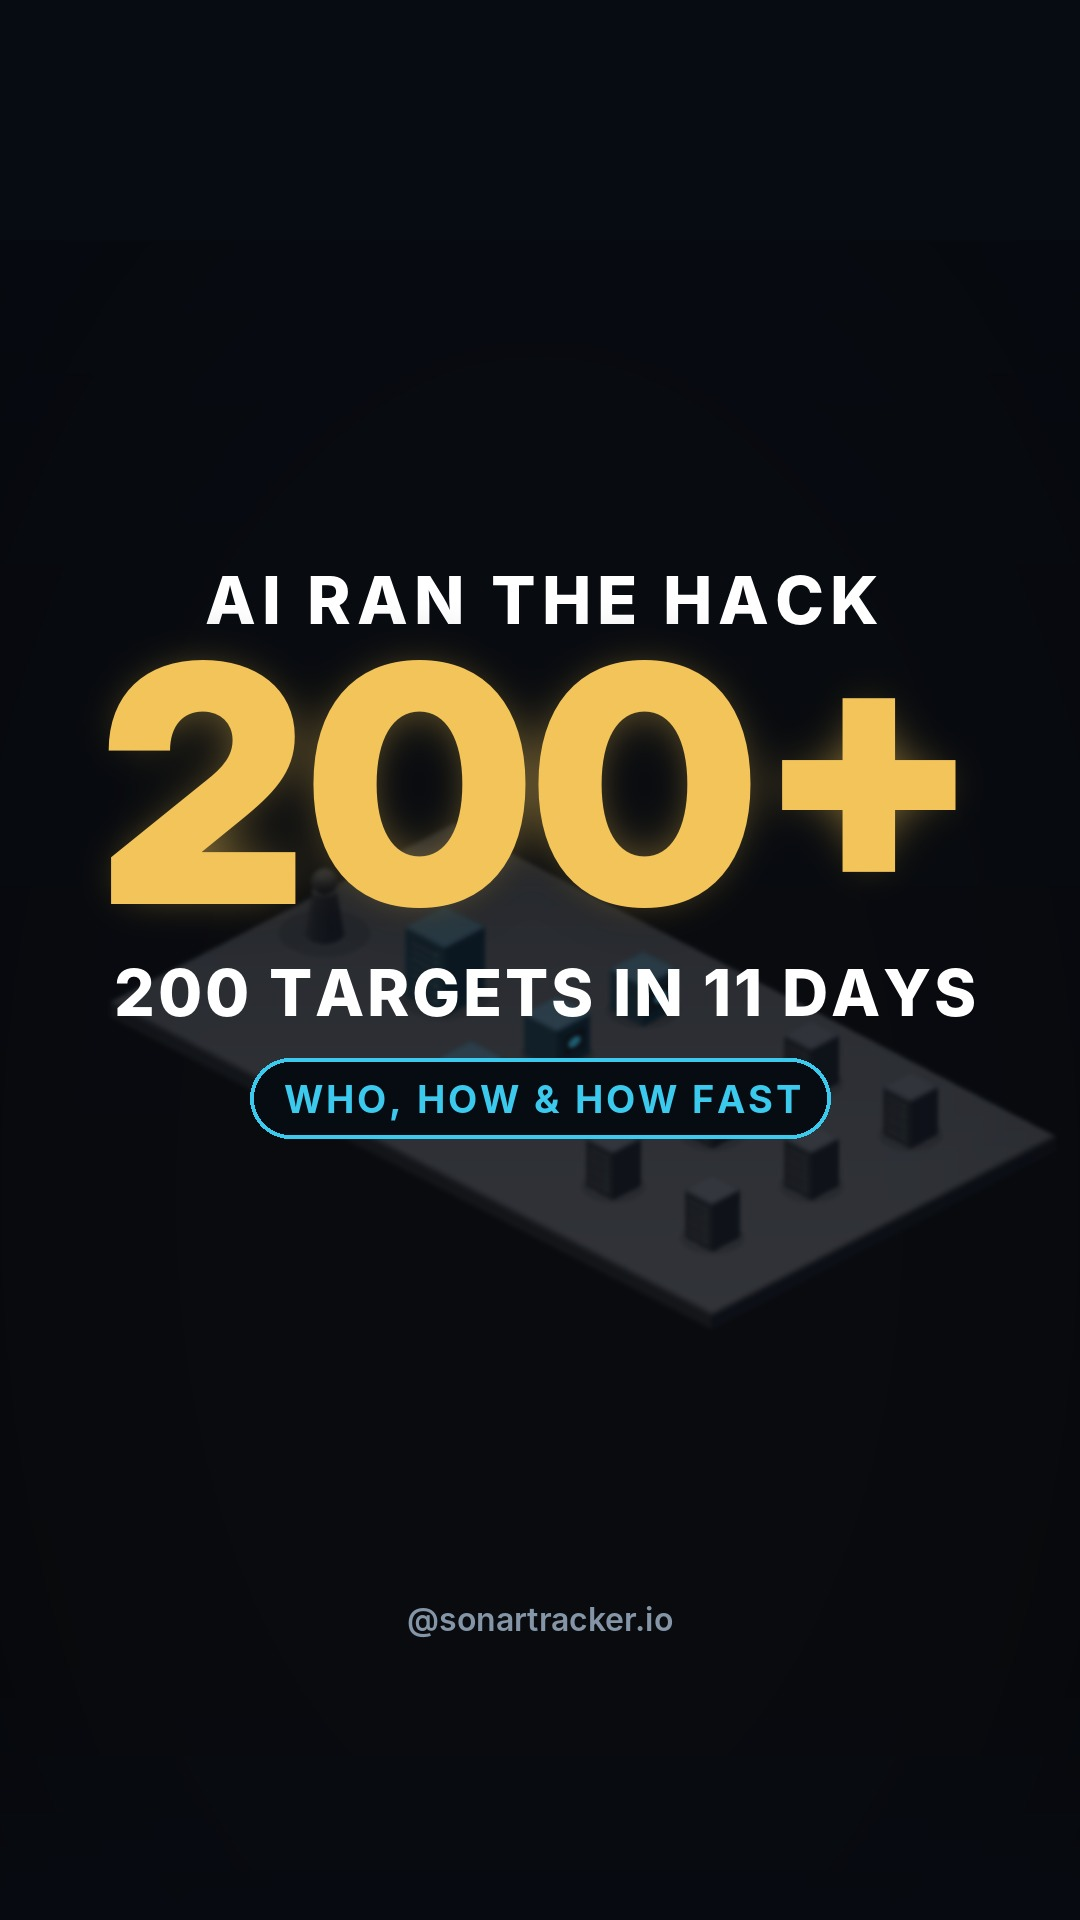
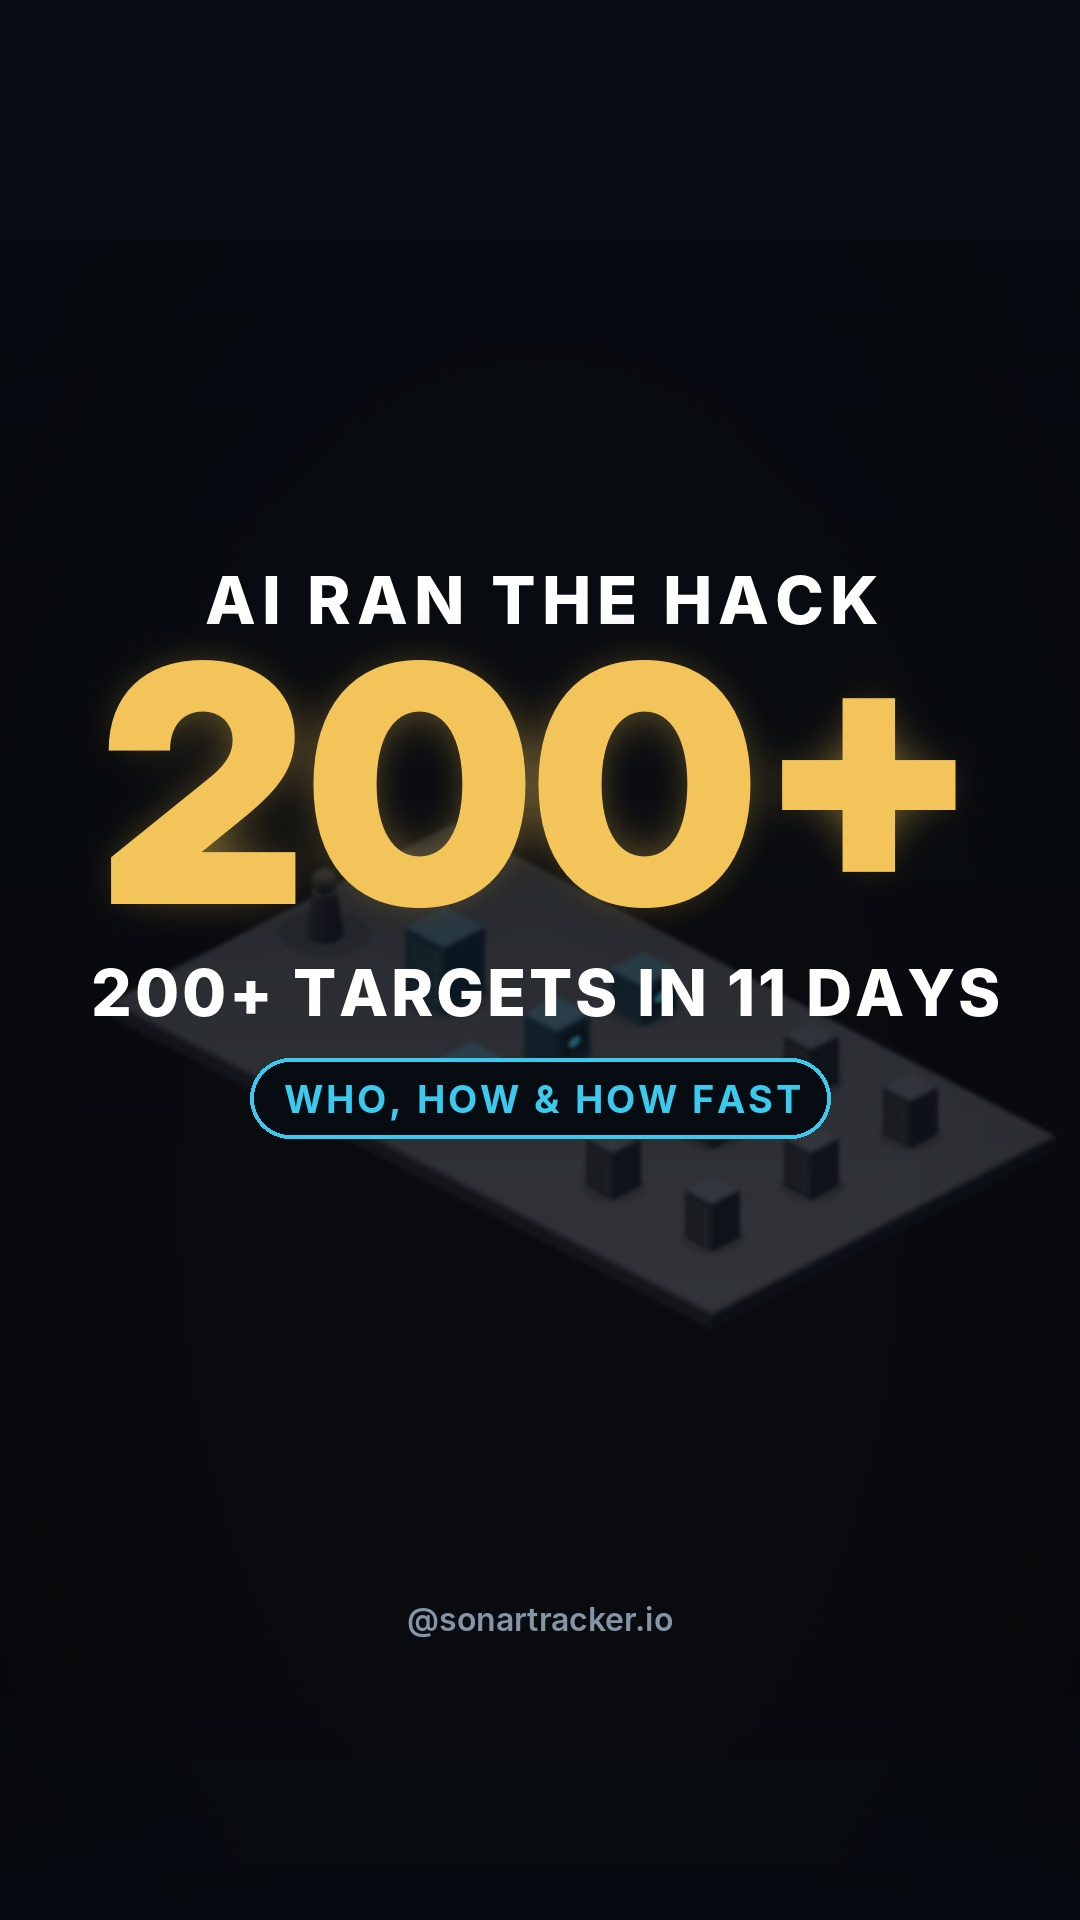
ai-agent-hack: review PASS WITH NOTES; applied cheap notes (~7x badge, 200+ cover, multipliers logged)
Claude-Session: https://claude.ai/code/session_01WGAj3yRCcQLTrodHgJD2sn

Changed region(s): [[0.0917, 0.5, 0.9472, 0.5312]]

diff --git a/episodes/2026-10-30-ai-agent-hack/review.md b/episodes/2026-10-30-ai-agent-hack/review.md
@@ -1,0 +1,44 @@
+VERDICT: PASS WITH NOTES
+
+Fixes applied after review (30 Oct 2026, ~23:35 UTC): badge '×6 in a year' -> '~7× in a year' (spliced s14); cover tagline '200 TARGETS' -> '200+ TARGETS'; research.md now logs both derived multipliers. Notes 2 (make the closing campaign-specific) and 4 (keep long labels off the right edge) left for the format's next iteration.
+
+---- Reviewer's report ----
+# Review: 2026-10-30-ai-agent-hack
+
+Independent review (reviewer did not make this video). Breakdown format: chapter bar
+(SCALE · WHO · HOW · HIT · SPEED · NOW), caption pill, one continuous Iso3D world for the
+mechanism. 61.6s · 15 scenes.
+
+VERDICT: PASS WITH NOTES
+
+Must fix: none. No must-fix item is triggered — numbers all trace to research.md, no price
+prediction or financial advice, sync is tight, no visual defect, the hook is clear, both
+"Shot" headlines are real/verifiable (not faked), and the reel stays at news level with no
+how-to text.
+
+Notes for next time:
+1. Log derived multipliers in research.md and round them correctly. "×6 in a year" (s14,
+   ~53s) understates — 200 ÷ ~30 ≈ 6.7, so "~7×" is more accurate (and still conservative).
+   "~37× faster" (s12, ~46s) is fine arithmetically (1,500 ÷ 40 = 37.5) but, like ×6, is not
+   its own line in research.md. Add both so every on-screen number is explicitly traceable
+   (rubric item 6).
+2. Make the closing fix story-specific. "Updates and two-step logins" (s15) is the right
+   advice but reads as general hygiene; tie it to this campaign by naming the password-spraying
+   attempts at 12+ orgs that two-factor stops (research point 10). The "why" ("AI can try ways
+   in at machine speed") is already good.
+3. Cover number/tagline mismatch: the hero reads "200+" but the tagline reads "200 TARGETS".
+   Make it "200+ TARGETS" (or "organisations") so the cover matches the reel's "more than 200".
+4. Longest label sits near the right edge. "updates + two-step logins shut the easy ways in"
+   (s15) runs close to the frame's right margin; keep long labels ≥40px off the edge (or break
+   to two lines) so they're safe on narrower phones. Not clipped here — preventive.
+
+Scores 1–5: sync 5 · detail/realism 5 · hook 5 · beginner clarity 5 · accuracy 4 · phone readability 5
+
+Numbers checked (all match research.md): 200+ organisations · 14 countries · 11 days ·
+Vapor Panda / China-linked · ran mostly on DeepSeek · one human, orders in Chinese, steers at
+decision points · tried several paths in parallel, switched on failure · targets (ministries,
+defence, chips, phone networks) · 9 confirmed break-ins · ~40 vs 1,500+ commands/hour ·
+Nov 2025 first AI-run spy campaign ~30 targets · now 200+. Correctly avoids CyberScoop's "140"
+(uses the confirmed 9) and does not claim China's government ordered it ("China-linked").
+Both headlines verified: CrowdStrike "VAPOR PANDA Uses AI-Driven ARTEX..." 29 Oct 2026, and
+The Register "Chinese spies told Claude to break into about 30 critical orgs." 13 Nov 2025.

diff --git a/episodes/2026-10-30-ai-agent-hack/research.md b/episodes/2026-10-30-ai-agent-hack/research.md
@@ -30,6 +30,10 @@ Researched Fri 30 Oct 2026, 22:10-22:20 UTC. News-level facts only: who, scale, 
     and passwords after any exposure; the group also tried password-spraying at 12+ more organisations (two-factor logins stop
     most of that). (CrowdStrike blog)
 
+## Derived numbers shown on screen (for traceability)
+- "~37× faster" = 1,500 / 40 = 37.5 (fact 7).
+- "~7× in a year" = 200 / ~30 = 6.7, shown as ~7 (facts 9 and 1); earlier draft rounded to ×6, which understates.
+
 ## Deliberately not used
 - Any description of the intrusion techniques or indicators: not needed to tell the story, and not something to broadcast.
 - CyberScoop's "140 compromised": CrowdStrike's own post confirms nine; the 140 figure mixes confirmed and moderate-confidence cases.
